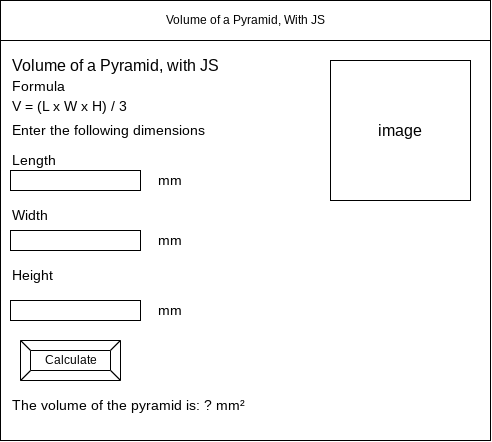
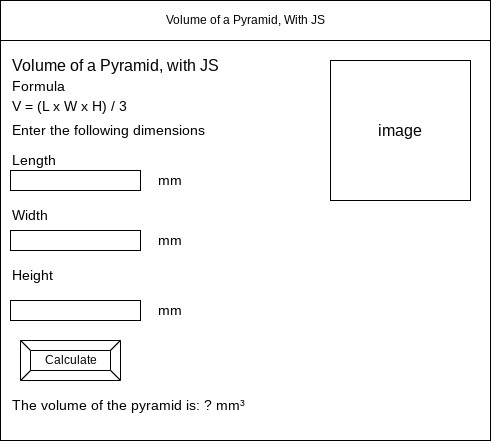
.

diff --git a/index.html b/index.html
@@ -127,7 +127,7 @@
         </button>
         <br />
         <br />
-        <div id="volume-of-pyramid">The volume of the pyramid is: ? cm²</div>
+        <div id="volume-of-pyramid">The volume of the pyramid is: ? cm³</div>
       </main>
     </div>
   </body>

diff --git a/js/script.js b/js/script.js
@@ -29,5 +29,5 @@ function enterClicked() {
 
   //output
   document.getElementById("volume-of-pyramid").innerHTML =
-    "The volume of the pyramid is: " + volume.toFixed(2) + " cm²."
+    "The volume of the pyramid is: " + volume.toFixed(2) + " cm³."
 }
